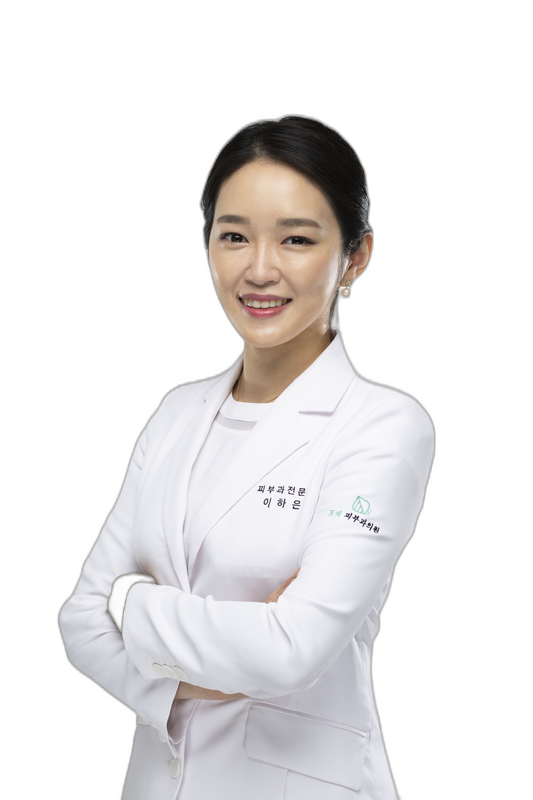
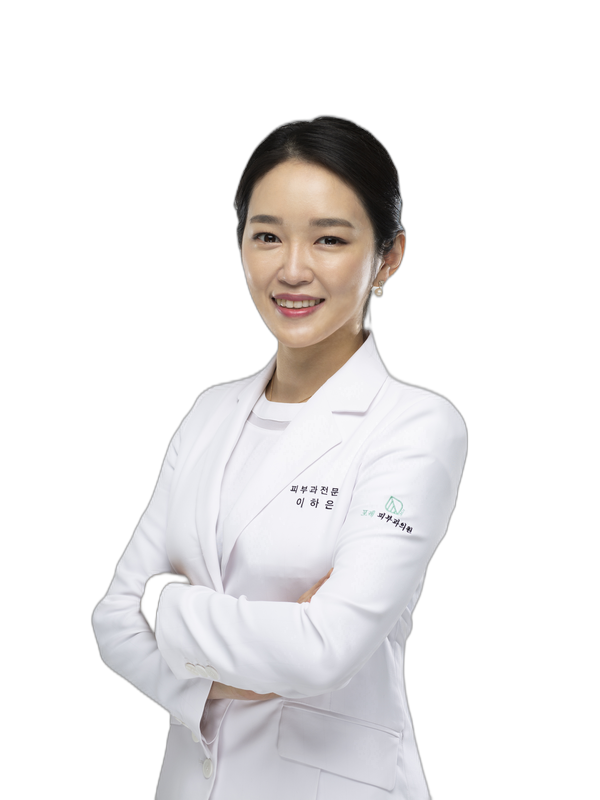
누끼 600x800 캔버스 통일 + 홈 카피 변경
- 정사각/가로형 사진도 600x800 캔버스에 bottom-align
  hero 영역에서 모든 사진이 같은 높이로 표시
- 홈 메인 카피: '가까운 피부과를 찾아보세요!' → '믿을 수 있는 피부과를 찾아보세요!'

diff --git a/js/app.js b/js/app.js
@@ -727,7 +727,7 @@ function renderHome() {
       <div class="home-logo">
         <img src="images/badge.jpg" alt="피부과 전문의" class="home-badge-logo">
       </div>
-      <h1 class="home-subtitle home-main-title">가까운 피부과를 찾아보세요!</h1>
+      <h1 class="home-subtitle home-main-title">믿을 수 있는 피부과를 찾아보세요!</h1>
       <div class="search-box">
         <input type="text" class="search-input" id="searchInput"
                placeholder="의사명, 피부과명, 진료분야로 검색" autocomplete="off">
